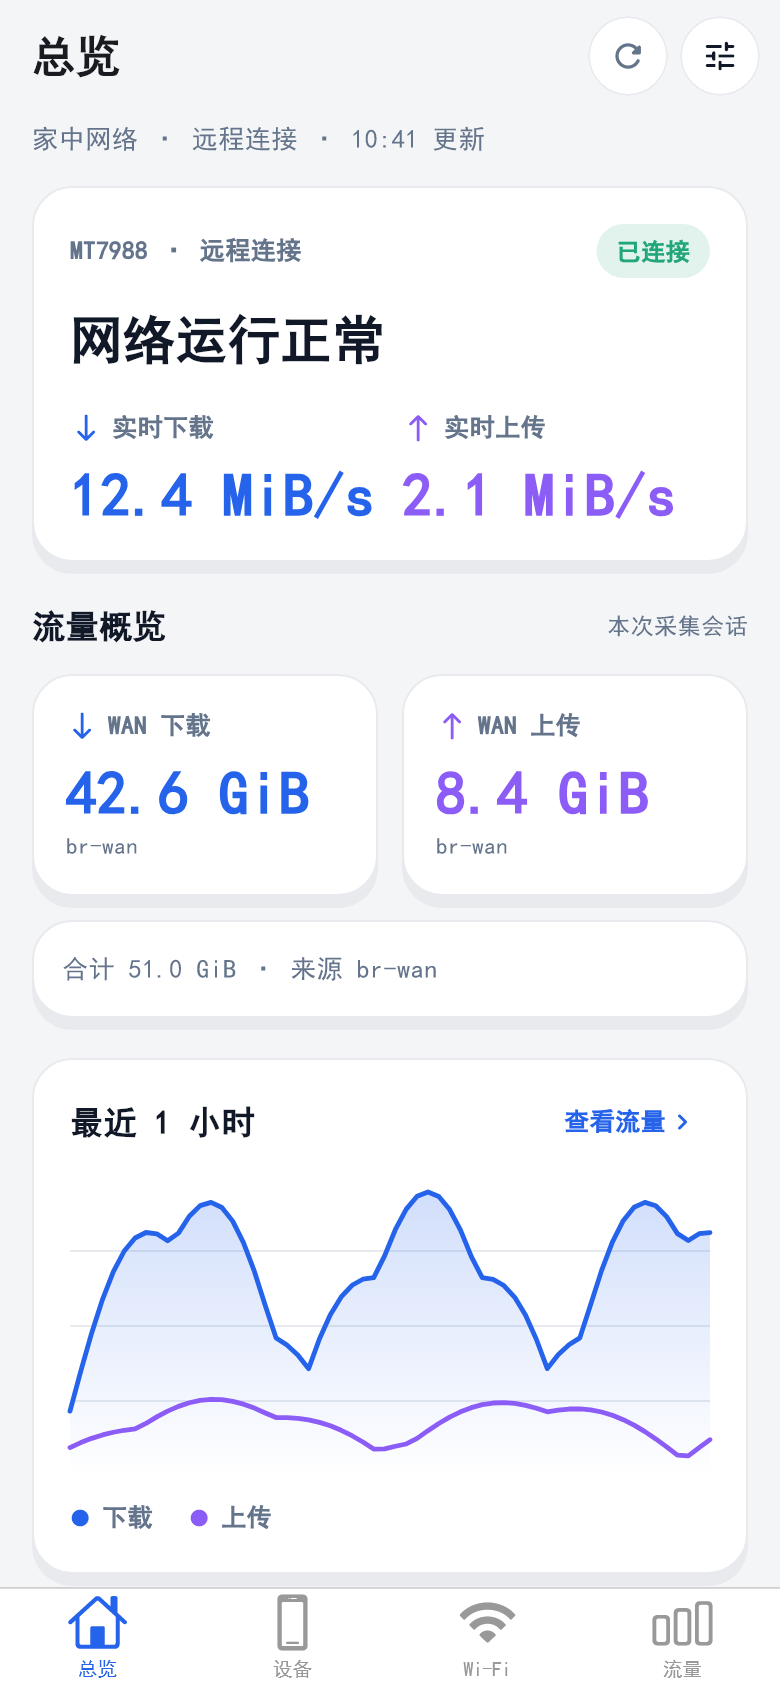
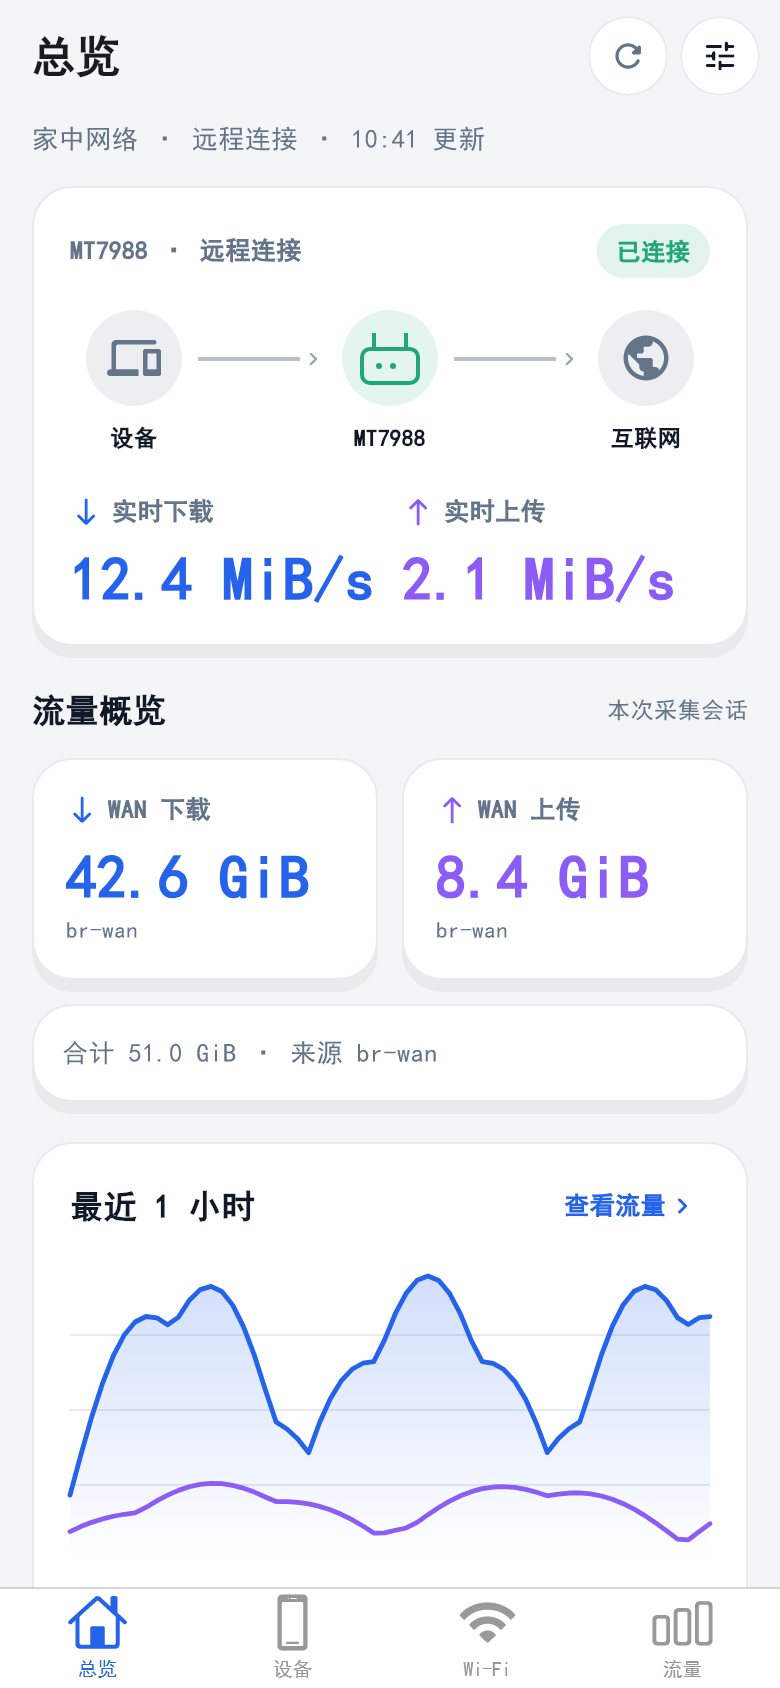
Show device to internet topology in overview

diff --git a/lib/screens/overview.dart b/lib/screens/overview.dart
@@ -32,26 +32,31 @@ class _Overview extends StatelessWidget {
     final String stateLabel;
     final String headline;
     final String detail;
+    final bool showTopology;
     if (offline) {
       stateColor = _red;
       stateLabel = '连接中断';
       headline = '连接已中断';
       detail = '显示上次成功读取的数据';
+      showTopology = false;
     } else if (stale) {
       stateColor = _amber;
       stateLabel = '数据延迟';
       headline = '数据更新延迟';
       detail = 'Traffic 采集已超过 60 秒未更新';
+      showTopology = false;
     } else if (summary == null && snapshot.live == null) {
       stateColor = _green;
       stateLabel = '已连接';
       headline = '路由器已连接';
       detail = '未获取到 Traffic 采集数据';
+      showTopology = false;
     } else {
       stateColor = _green;
       stateLabel = '已连接';
-      headline = '网络运行正常';
+      headline = '';
       detail = '';
+      showTopology = true;
     }
 
     final down = summary?.headlineDown;
@@ -69,6 +74,8 @@ class _Overview extends StatelessWidget {
           stateColor: stateColor,
           headline: headline,
           detail: detail,
+          showTopology: showTopology,
+          onOpenDevices: () => onOpen(1),
           live: snapshot.live,
         ),
         const SizedBox(height: 20),
@@ -187,6 +194,8 @@ class _Hero extends StatelessWidget {
     required this.stateColor,
     required this.headline,
     required this.detail,
+    required this.showTopology,
+    required this.onOpenDevices,
     required this.live,
   });
 
@@ -195,6 +204,8 @@ class _Hero extends StatelessWidget {
   final Color stateColor;
   final String headline;
   final String detail;
+  final bool showTopology;
+  final VoidCallback onOpenDevices;
   final LiveRate? live;
 
   @override
@@ -222,12 +233,15 @@ class _Hero extends StatelessWidget {
             ],
           ),
           const SizedBox(height: 16),
-          Text(headline,
-              style: TextStyle(
-                  fontSize: 26,
-                  height: 1.15,
-                  fontWeight: FontWeight.w800,
-                  color: _inkOf(context))),
+          if (showTopology)
+            _NetworkTopology(onOpenDevices: onOpenDevices)
+          else
+            Text(headline,
+                style: TextStyle(
+                    fontSize: 26,
+                    height: 1.15,
+                    fontWeight: FontWeight.w800,
+                    color: _inkOf(context))),
           if (detail.isNotEmpty) ...[
             const SizedBox(height: 6),
             Text(detail,
@@ -258,6 +272,164 @@ class _Hero extends StatelessWidget {
       ),
     );
   }
+}
+
+class _NetworkTopology extends StatelessWidget {
+  const _NetworkTopology({required this.onOpenDevices});
+
+  final VoidCallback onOpenDevices;
+
+  @override
+  Widget build(BuildContext context) {
+    final neutral = _mutedOf(context);
+    final vertical = MediaQuery.textScalerOf(context).scale(1) >= 1.5;
+    final nodes = [
+      _TopologyNode(
+          label: '设备',
+          icon: Icons.devices_rounded,
+          color: neutral,
+          onTap: onOpenDevices,
+          key: const ValueKey('topology-devices')),
+      const _TopologyNode(label: 'MT7988', color: _green, router: true),
+      _TopologyNode(label: '互联网', icon: Icons.public_rounded, color: neutral),
+    ];
+    return Semantics(
+      label: '设备、MT7988、互联网拓扑示意；已连接 MT7988，上游状态未检测',
+      child: vertical
+          ? Column(
+              children: [
+                nodes[0],
+                _TopologyLink(color: neutral, vertical: true),
+                nodes[1],
+                _TopologyLink(color: neutral, vertical: true),
+                nodes[2],
+              ],
+            )
+          : Row(
+              crossAxisAlignment: CrossAxisAlignment.start,
+              children: [
+                Expanded(child: nodes[0]),
+                Expanded(child: _TopologyLink(color: neutral)),
+                Expanded(child: nodes[1]),
+                Expanded(child: _TopologyLink(color: neutral)),
+                Expanded(child: nodes[2]),
+              ],
+            ),
+    );
+  }
+}
+
+class _TopologyNode extends StatelessWidget {
+  const _TopologyNode({
+    super.key,
+    required this.label,
+    required this.color,
+    this.icon,
+    this.router = false,
+    this.onTap,
+  });
+
+  final String label;
+  final Color color;
+  final IconData? icon;
+  final bool router;
+  final VoidCallback? onTap;
+
+  @override
+  Widget build(BuildContext context) {
+    final child = Column(
+      mainAxisSize: MainAxisSize.min,
+      children: [
+        Container(
+          width: 48,
+          height: 48,
+          alignment: Alignment.center,
+          decoration: BoxDecoration(
+              color: color.withValues(alpha: 0.12), shape: BoxShape.circle),
+          child: router
+              ? _RouterTopologyGlyph(color: color)
+              : Icon(icon, size: 27, color: color),
+        ),
+        const SizedBox(height: 8),
+        Text(label,
+            textAlign: TextAlign.center,
+            maxLines: 2,
+            style: TextStyle(
+                fontSize: 11.5,
+                fontWeight: FontWeight.w700,
+                color: _inkOf(context))),
+      ],
+    );
+    if (onTap == null) return child;
+    return InkWell(
+        onTap: onTap, borderRadius: BorderRadius.circular(12), child: child);
+  }
+}
+
+class _TopologyLink extends StatelessWidget {
+  const _TopologyLink({required this.color, this.vertical = false});
+
+  final Color color;
+  final bool vertical;
+
+  @override
+  Widget build(BuildContext context) => ExcludeSemantics(
+        child: vertical
+            ? Container(
+                width: 2,
+                height: 18,
+                margin: const EdgeInsets.symmetric(vertical: 8),
+                color: color.withValues(alpha: 0.45))
+            : Padding(
+                padding: const EdgeInsets.only(top: 18),
+                child: Row(children: [
+                  Expanded(
+                      child: Container(
+                          height: 2, color: color.withValues(alpha: 0.45))),
+                  Icon(Icons.chevron_right_rounded,
+                      size: 13, color: color.withValues(alpha: 0.65)),
+                ]),
+              ),
+      );
+}
+
+class _RouterTopologyGlyph extends StatelessWidget {
+  const _RouterTopologyGlyph({required this.color});
+
+  final Color color;
+
+  @override
+  Widget build(BuildContext context) => SizedBox(
+        width: 30,
+        height: 27,
+        child: Stack(children: [
+          Positioned(
+              left: 6,
+              top: 1,
+              child: Container(width: 2, height: 8, color: color)),
+          Positioned(
+              right: 6,
+              top: 1,
+              child: Container(width: 2, height: 8, color: color)),
+          Positioned(
+            bottom: 0,
+            child: Container(
+              width: 30,
+              height: 19,
+              padding: const EdgeInsets.only(left: 6),
+              decoration: BoxDecoration(
+                border: Border.all(color: color, width: 2),
+                borderRadius: BorderRadius.circular(5),
+              ),
+              child: Row(children: [
+                CircleAvatar(radius: 1.5, backgroundColor: color),
+                const SizedBox(width: 4),
+                CircleAvatar(radius: 1.5, backgroundColor: color),
+              ]),
+            ),
+          ),
+        ]),
+      );
 }
 
 String _uptime(int? seconds) {

diff --git a/test/widget_test.dart b/test/widget_test.dart
@@ -74,7 +74,14 @@ class _FlakyApi extends _FakeRouterApi {
     if (reads == 2) {
       throw const RouterApiException('连接超时，请检查路由器或远程入口');
     }
-    return RouterSnapshot(fetchedAt: DateTime.now());
+    return RouterSnapshot(
+      fetchedAt: DateTime.now(),
+      live: const LiveRate(
+          ready: true,
+          downBytesPerSecond: 1024,
+          upBytesPerSecond: 512,
+          at: null),
+    );
   }
 }
 
@@ -122,15 +129,19 @@ void main() {
     expect(find.text('BE14 驱动可能不返回全部射频'), findsOneWidget);
   });
 
-  testWidgets('healthy network uses a concise text status in the hero',
+  testWidgets('healthy overview shows device to router to internet topology',
       (tester) async {
     await tester.pumpWidget(MaterialApp(
         home: RouterHome(
             storage: _MemoryStorage(), apiFactory: (_) => _HealthyApi())));
     await tester.pumpAndSettle();
-    expect(find.text('网络运行正常'), findsOneWidget);
-    expect(find.byIcon(Icons.public_rounded), findsNothing);
-    expect(find.byIcon(Icons.check_circle_rounded), findsNothing);
+    expect(find.text('网络运行正常'), findsNothing);
+    expect(find.text('MT7988'), findsOneWidget);
+    expect(find.text('互联网'), findsOneWidget);
+    expect(find.text('UCG Fiber'), findsNothing);
+    await tester.tap(find.byKey(const ValueKey('topology-devices')));
+    await tester.pump();
+    expect(find.text('设备记录'), findsOneWidget);
   });
 
   testWidgets('iOS presents a platform tab bar', (tester) async {
@@ -222,12 +233,16 @@ void main() {
     await tester.pumpWidget(MaterialApp(
         home: RouterHome(storage: _MemoryStorage(), apiFactory: (_) => api)));
     await tester.pump();
+    expect(find.text('互联网'), findsOneWidget);
     await tester.pump(const Duration(seconds: 16));
     await tester.pump();
     expect(find.textContaining('连接中断 · 显示上次成功读取的数据'), findsOneWidget);
+    expect(find.text('连接已中断'), findsOneWidget);
+    expect(find.text('互联网'), findsNothing);
     await tester.pump(const Duration(seconds: 16));
     await tester.pump();
     expect(find.textContaining('连接中断 · 显示上次成功读取的数据'), findsNothing);
+    expect(find.text('互联网'), findsOneWidget);
     expect(api.reads, 3);
   });
 }

diff --git a/README.md b/README.md
@@ -4,6 +4,8 @@ An independent iOS and Android status app for the MT7988 router. It uses the exi
 
 The app shows router uptime, Traffic App rates and session totals, DHCP leases and traffic clients, and the BE14 radio status exposed by OpenWrt's `network.wireless status`. It does not display MiWiFi, modify router settings, or connect a VPN.
 
+The overview uses a three-node device → MT7988 → Internet diagram. It is a topology sketch: the app verifies its MT7988 connection, but does not measure the upstream Internet link or claim that device records are currently online.
+
 The four screens follow the [platform-adaptive v3 design](design/platform-adaptive-v3.md). iOS uses a native UIKit tab bar, which adopts the system's Liquid Glass appearance on supported OS versions. Android uses Material 3 navigation, Android 12+ system accent color, and a navigation rail on wider screens. The content remains the same read-only router data on both platforms.
 
 | iOS preview | Android preview |

diff --git a/design/connection-topology-v1.md b/design/connection-topology-v1.md
@@ -1,0 +1,7 @@
+# 总览连接卡：设备到网络拓扑
+
+用三个节点替换“网络运行正常”文字：`设备 → MT7988 → 互联网`。卡片顶部保留连接状态，底部保留 MT7988 实时下载、上传。点击设备节点进入设备页。
+
+状态口径：目前 App 只从 MT7988 的只读 ubus 接口获得路由器、DHCP、流量与 BE14 数据。设备列表是 DHCP 租约或流量记录，不代表在线；互联网的实时健康状态无数据源。链路线条因此使用中性色，绿色只标示 App 已连接到 MT7988。拓扑是简化示意，不推断中间网关或链路质量。
+
+在现有总览卡中加入三节点组件，保留断连和数据延迟的文字状态；文字放大时改成纵向排列。组件测试覆盖节点、状态口径和设备页跳转，Android 与 iOS 预览使用实际 Flutter 组件更新。无需改变路由器写权限或新增静态路由。
